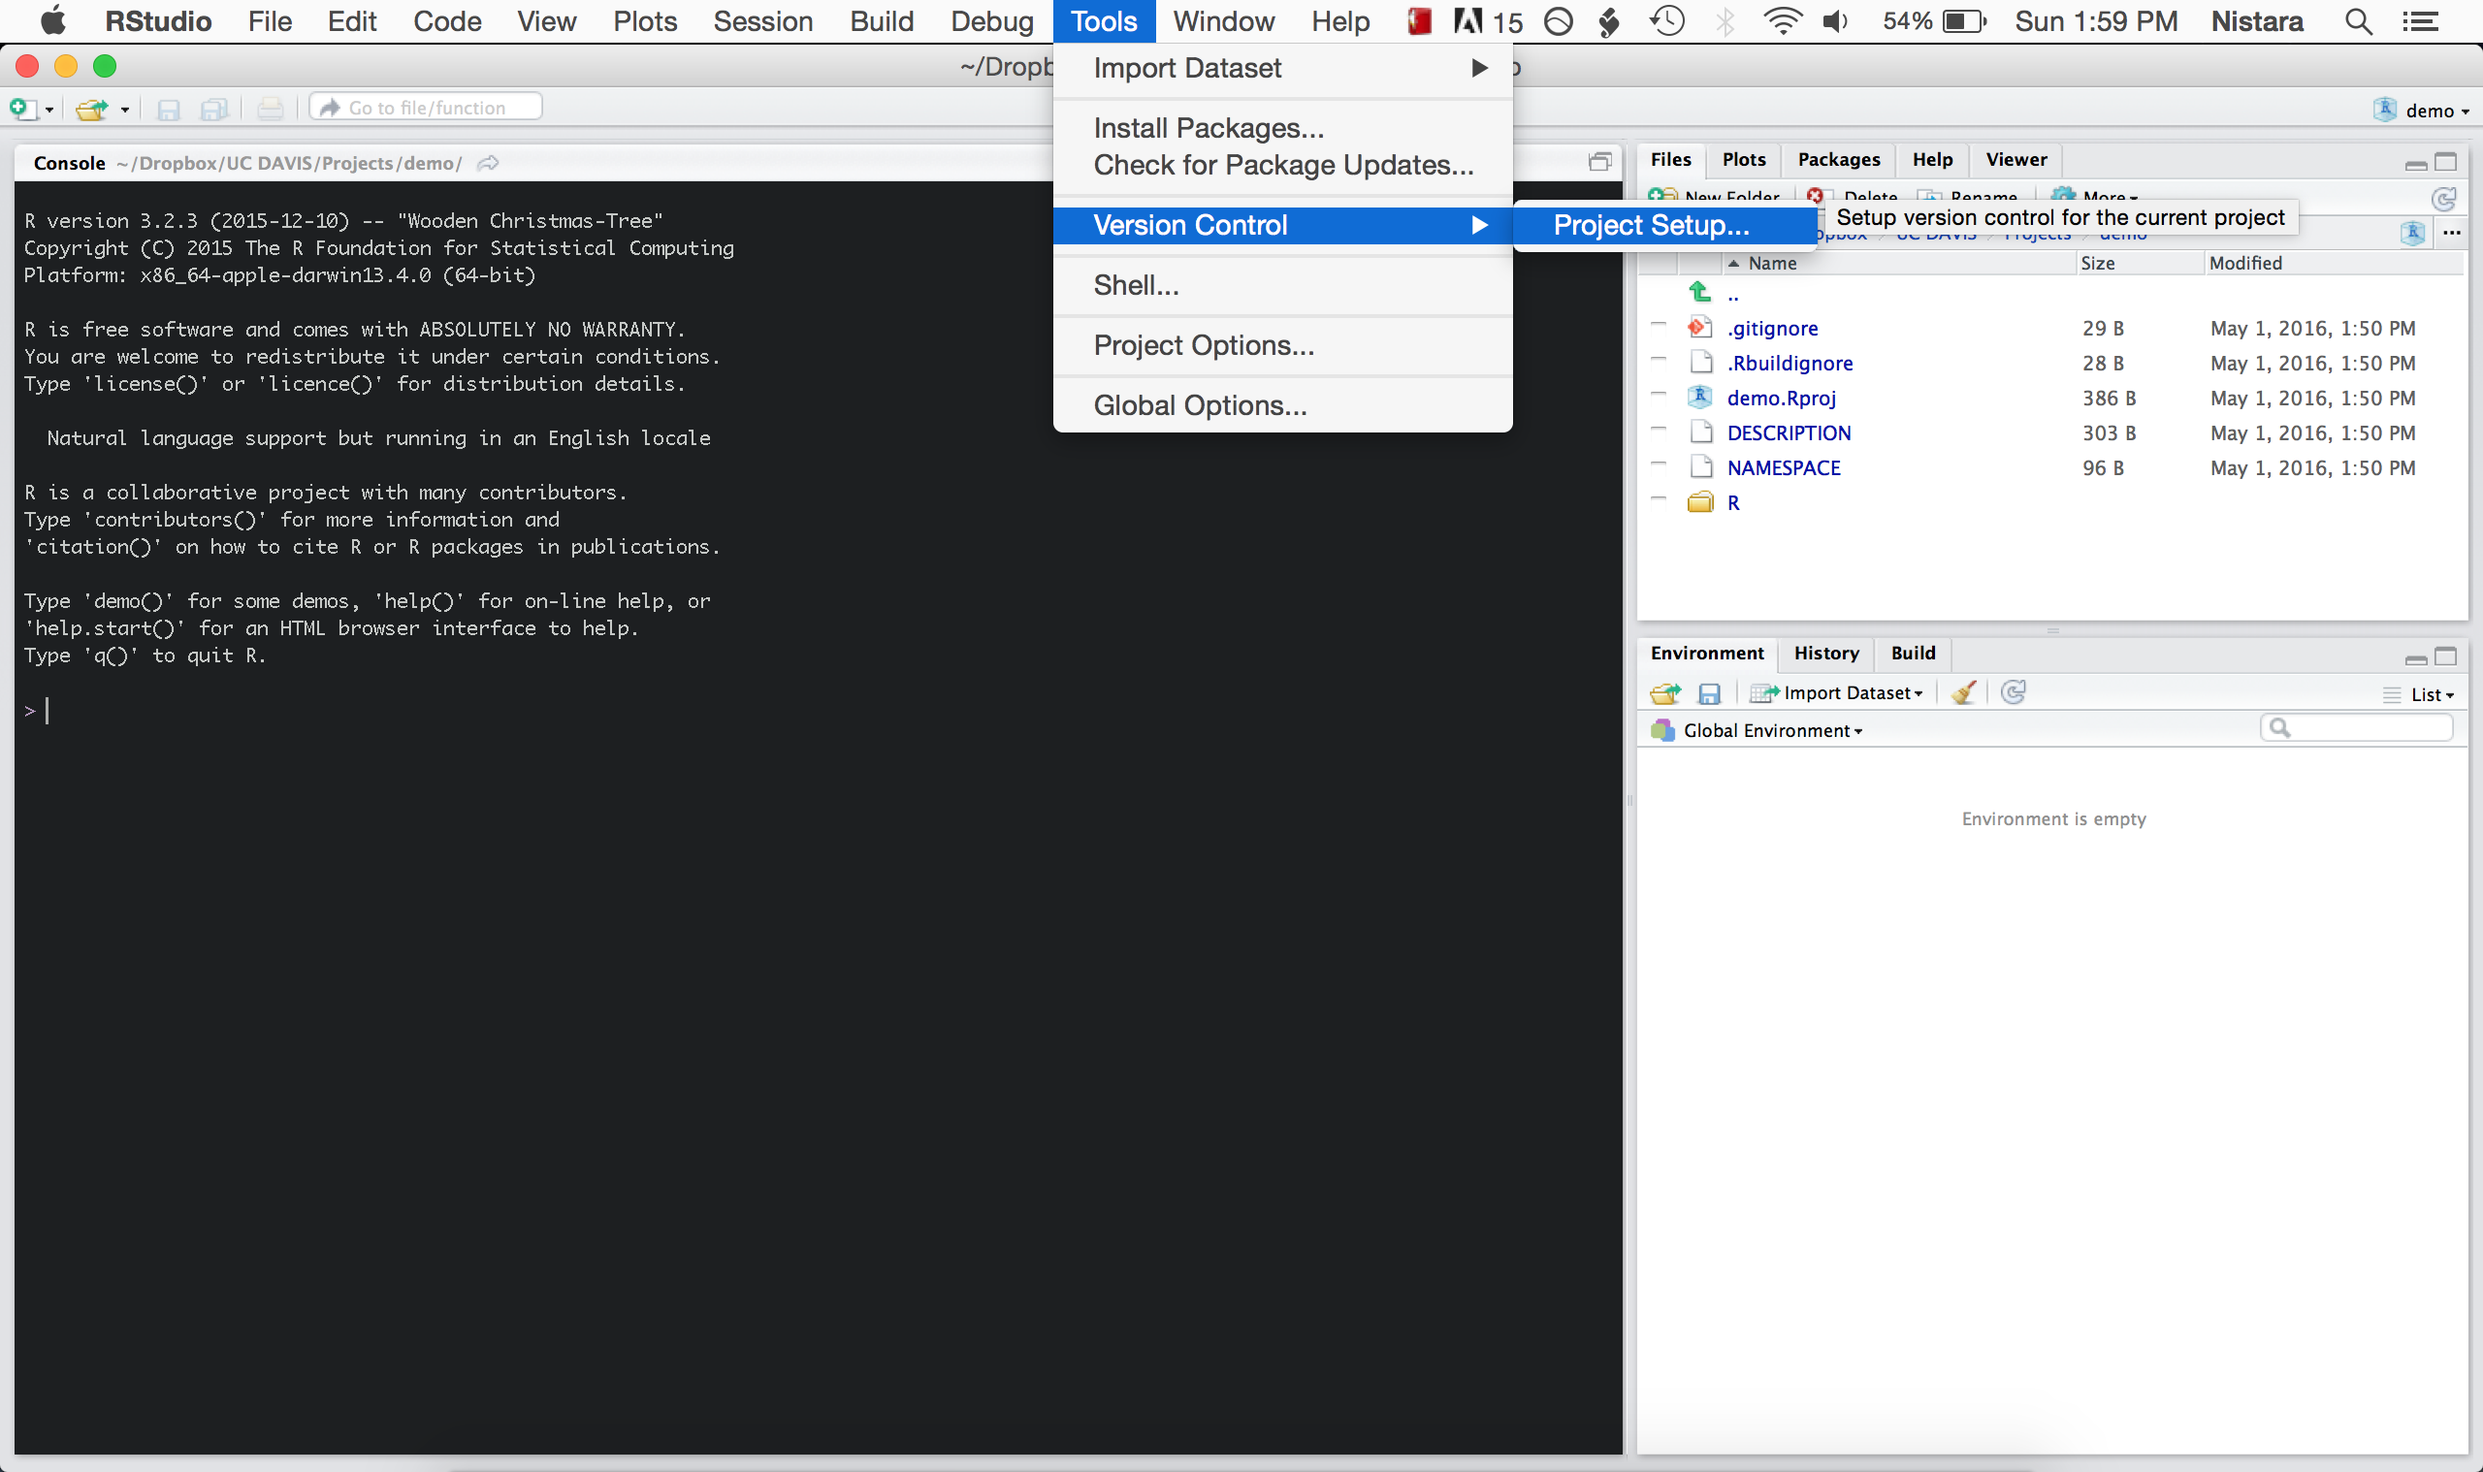
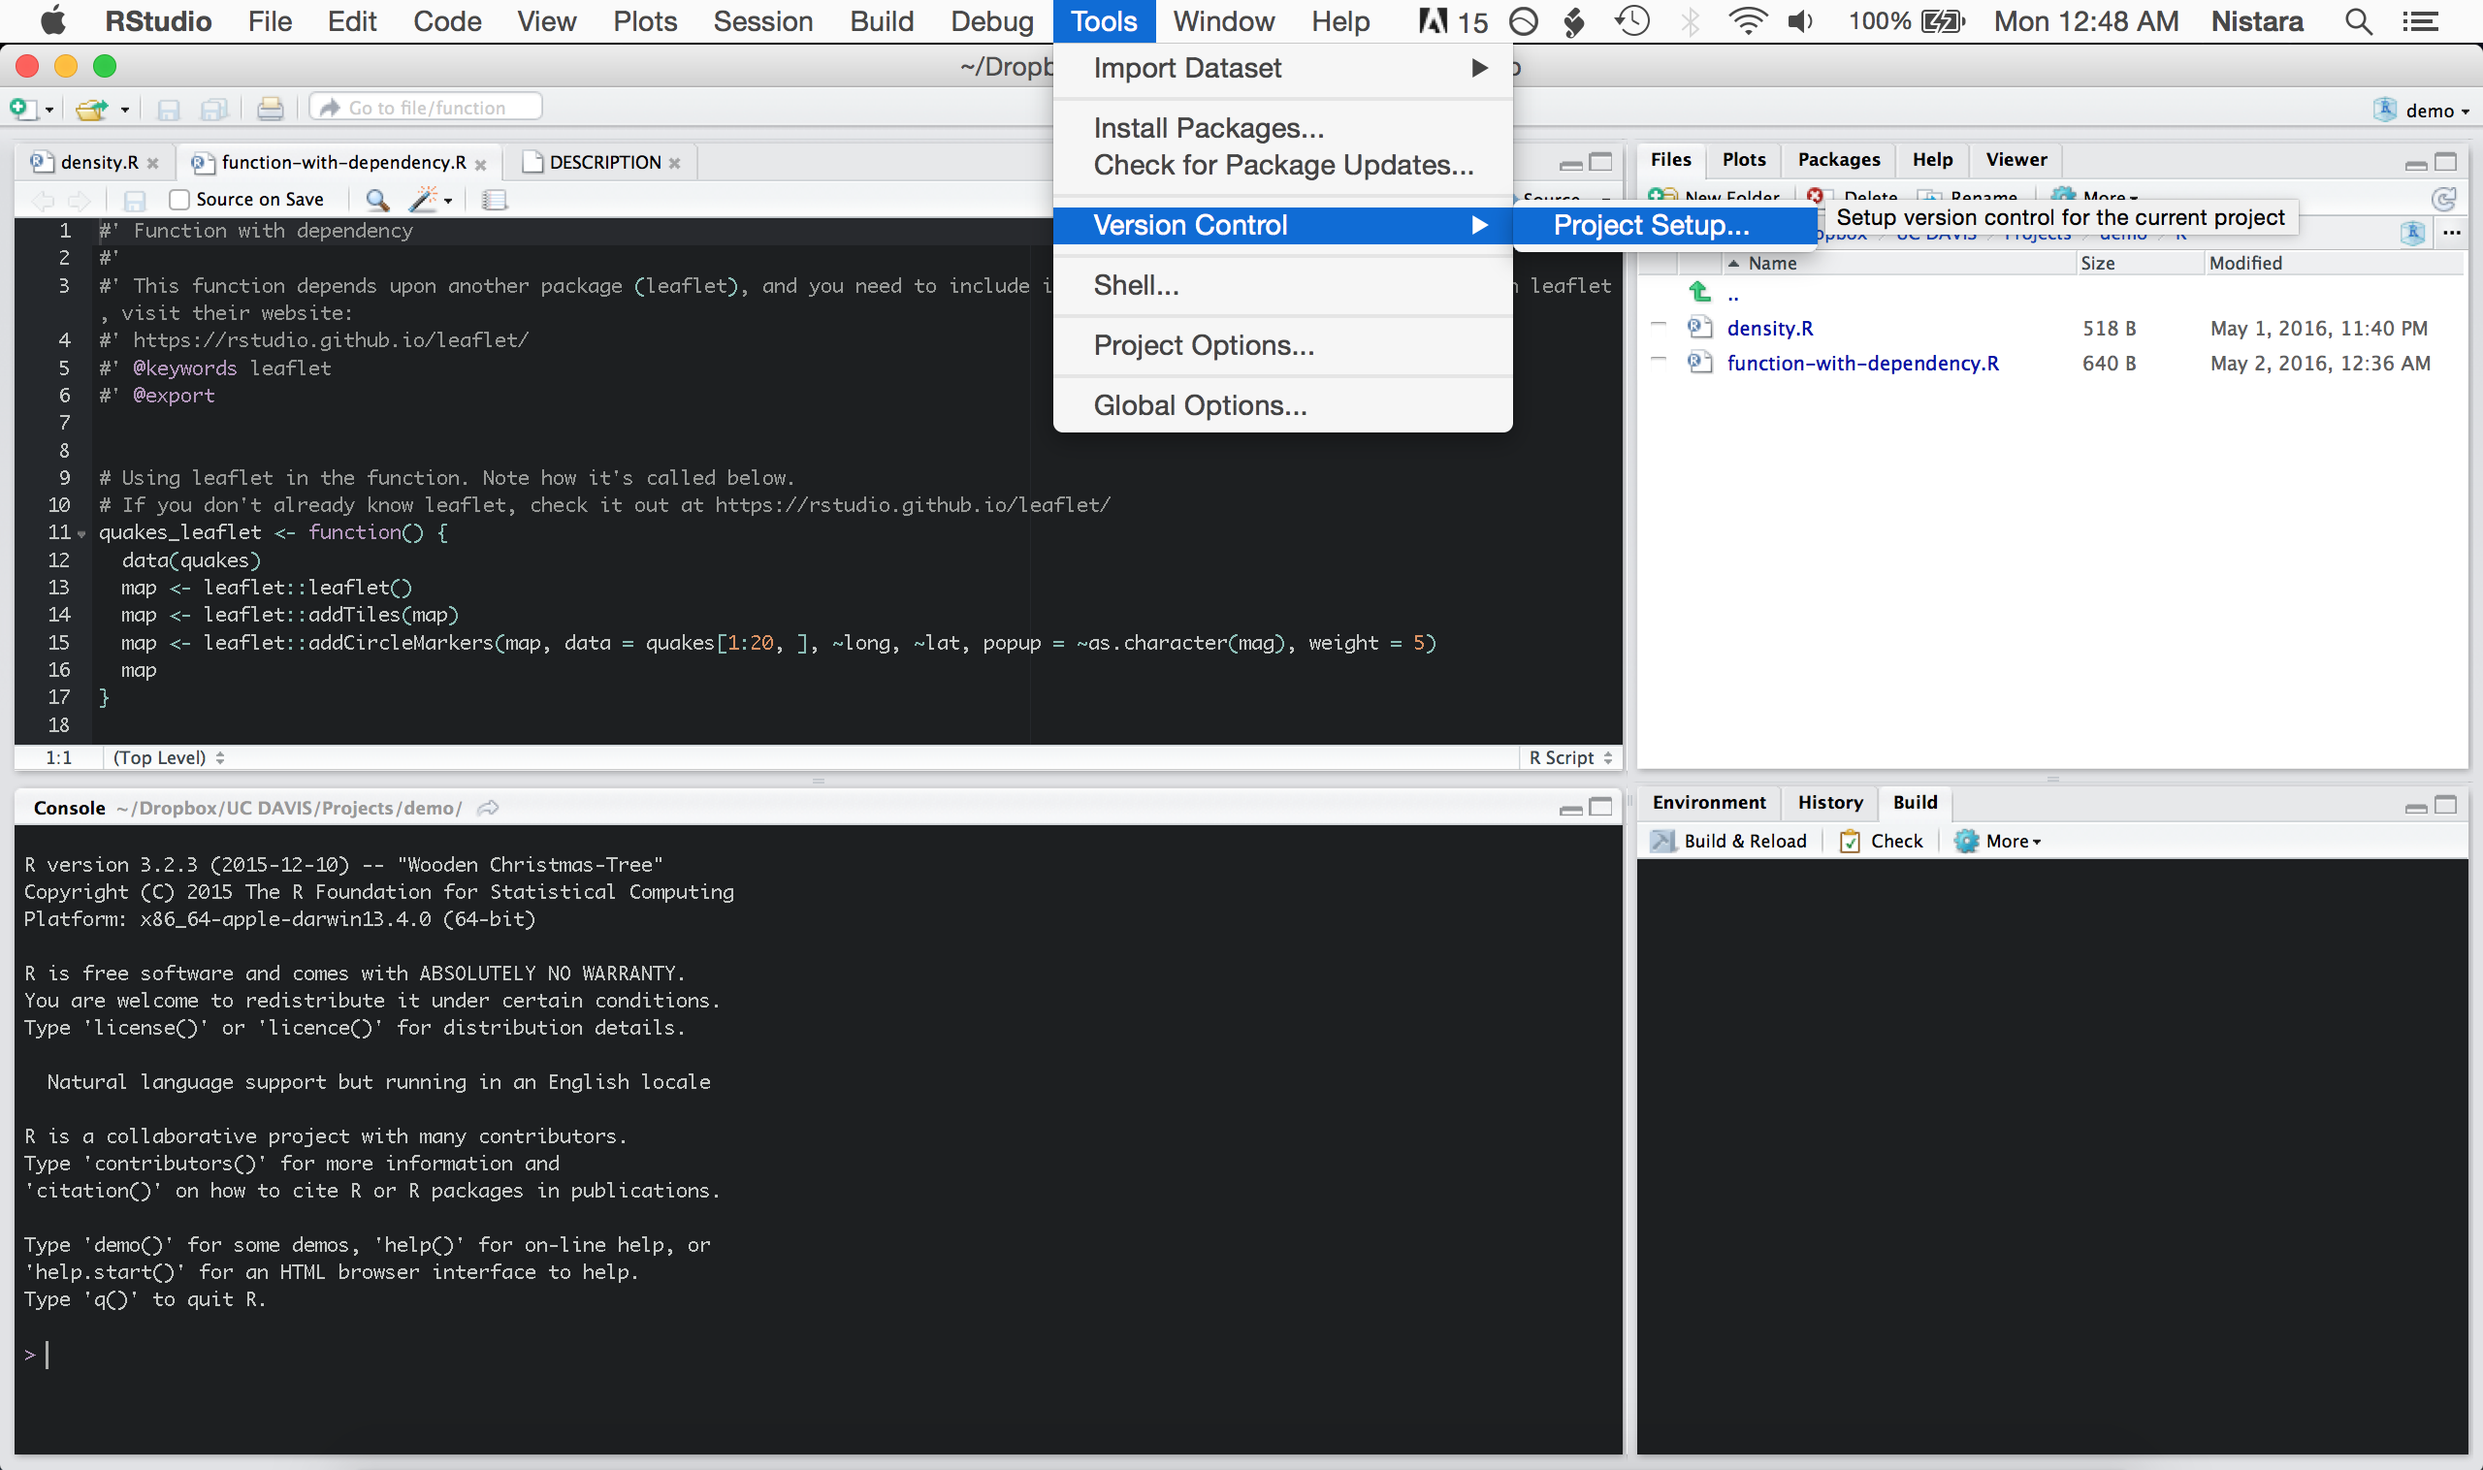
package post

diff --git a/_posts/2016-04-01-building-R-package.md b/_posts/2016-04-01-building-R-package.md
@@ -6,7 +6,6 @@ tags:
  - R
 comments: true
 ---
-Under construction
 
 I made this post for an introduction to building and documenting your own R packages for the Davis R-users' group. It'll get you started on making basic R packages, and once you get the flavor of what it's all about, you can unleash your inner R genie to create your own tools! 
 
@@ -34,8 +33,7 @@ library("devtools")
 devtools::install_github("klutometis/roxygen")
 library(roxygen2)
 
-Step
-install.packages(c("devtools", "
+# Create a demo package
 devtools::create("package_path/demo")
 {% endhighlight %}
 
@@ -52,19 +50,6 @@ A project is automatically created within that folder, along with the basic skel
 
    ![]({{ nistara.github.io }}/_assets/images/2016-05-01-R-packages-post/2016-05-01-1-start-screenI.png)
 
-
-
-To enable version control using git and github, and subsequently host your package on github, change your project settings via **Tools** from the menu bar. _If you don't intend to use git/github, skip the following steps:_
-
-   ![]({{ nistara.github.io }}/_assets/images/2016-05-01-R-packages-post/2016-05-01-2-start-screenII.png)
-
-From Git/SVN in the project options, choose git.
-
-   ![]({{ nistara.github.io }}/_assets/images/2016-05-01-R-packages-post/2016-05-01-3-choose-git.png)
-
-
-You'll see git options in your project window now:
-   ![]({{ nistara.github.io }}/_assets/images/2016-05-01-R-packages-post/2016-05-01-5-now-git.png)
 
 ## **Writing functions**
 
@@ -83,20 +68,143 @@ dplot_rnorm <- function(n = 100) {
 {% endhighlight %}
 
 You can load and run the functions in your package with devtools 
-{% highlight r %} 
+
+{% highlight r %}
 # Load the function(s) created in your package
 devtools::load_all() 
 
-# Check out the dplot_rnorm function now
+# Check out the dplot_rnorm function to see if it works
 dplot_rnorm()
 {% endhighlight %}
 
-<img src={{ nistara.github.io }}/_assets/images/2016-05-01-R-packages-post/sample.pdf) width="250" height="175" />
-
-![]({{ nistara.github.io }}/_assets/images/2016-05-01-R-packages-post/sample.pdf)
+<img src="https://nistara.github.io/_assets/images/2016-05-01-R-packages-post/sample.pdf" width="400" height="500" />
 
 
-devtools::load_
+It does! Now we'd also like to add documentation for our function. The package roxygen2 is great for this because it significantly simpifies the documentation process. 
+
+{% highlight r %}
+#' Random number generator and plotter
+#'
+#' This function generates random normal numbers, and creates a density plot for them.
+#' @param n number of random normal numbers you'd like generated (default is 100)
+#' @keywords random normal, plot
+#' @export
+#' @examples
+#' dplot_rnorm()
+#' dplot_rnorm(n = 1000)
+
+dplot_rnorm <- function(n = 100) {
+  numbers <- rnorm(n)
+  d <- density(numbers)
+  title <- sprintf("Density plot of %s random normal numbers", n)
+  plot(d, main = title)
+  polygon(d, col = "lightgrey")
+}
+{% endhighlight %}
+
+Now document your package using devtools, and check out the generated help file:
+{% highlight r %}
+# Document package with devtools
+devtools::document()
+
+# See what the help file looks like
+?dplot_rnorm
+{% endhighlight %}
+
+<img src="https://nistara.github.io/_assets/images/2016-05-01-R-packages-post/help-file.png" width="600" border="1"/>
+
+<br>
+
+Another thing you might want to update is the DESCRIPTION file of yor package. Open it and see the default description, and update it as you'd like (it's pretty self explanatory). 
+
+Voila! We're done with our basic package. 
+
+### **What if some commands depend on another package?**
+You might find yourself needing to include commands from another package, for e.g. dplyr, or tidyr. They're called **dependencies**, and can be added with (no surprises) devtools. I like [leaflet](https://rstudio.github.io/leaflet/)  a lot, so will use it as an example:
+
+{% highlight r %}
+devtools::use_package("leaflet")
+{% endhighlight %}
+
+Now let's write a function which calls leaflet:
+
+{% highlight r %}
+#' Function with dependency
+#'
+#' This function depends upon another package (leaflet), and you need to include it with devtools. For more information on leaflet, visit their website:
+#' https://rstudio.github.io/leaflet/
+#' @keywords leaflet
+#' @export
+
+# Using leaflet in the function. Note how it's called below.
+# If you don't already know leaflet, check it out at https://rstudio.github.io/leaflet/
+quakes_leaflet <- function() {
+  data(quakes)
+  map <- leaflet::leaflet()
+  map <- leaflet::addTiles(map)
+  map <- leaflet::addCircleMarkers(map, data = quakes[1:20, ], ~long, ~lat, popup = ~as.character(mag), weight = 5)
+  map
+}{% endhighlight %}
+
+To see how it's working, you need to repeat the devtools' _document_ and _load_all_ functions again:
+{% highlight r %}
+devtools::document()
+devtools::load_all()
+
+# Check its help file
+?quakes_leaflet()
+
+# Run the function
+quakes_leaflet()
+{% endhighlight %}
+
+## **Installing your package as a local file**
+
+After you've wrapped up the package and it's good to go, you can install the package via:
+
+{% highlight r %}
+# Install demo
+install.packages("path/to/demo", repos = NULL, type="source")
+library(demo)
+
+# Run a function from demo or look at a help file
+??quakes_leaflet
+quakes_leaflet()
+{% endhighlight %}
+
+## **That's it! But what if you want to use git/github with your package?**
+To enable version control using git and github, and subsequently host your package on github, change your project settings via **Tools** from the menu bar. _If you don't intend to use git/github, skip the following steps:_
+
+   ![]({{ nistara.github.io }}/_assets/images/2016-05-01-R-packages-post/2016-05-01-2-start-screenII.png)
+
+From Git/SVN in the project options, choose git.
+
+   ![]({{ nistara.github.io }}/_assets/images/2016-05-01-R-packages-post/2016-05-01-3-choose-git.png)
+
+
+You'll see git options in your project window now:
+   ![]({{ nistara.github.io }}/_assets/images/2016-05-01-R-packages-post/2016-05-01-5-now-git.png)
+   
+You can now commit changes and push the contents of the package to your github repository. 
+
+To install a package (e.g. the demo package I just created) from the github repository:
+
+{% highlight r %}
+devtools::install_github("nistara/demo")
+{% endhighlight %}
+
+## **Resources/References for you**
+Hope you've learnt enough to get started with making packages. My main references were:
+
+* Hadley Wickham's book, **[R packages](http://r-pkgs.had.co.nz)**, and 
+
+* Hilary Parker's short and sweet (and very helpful) [post on writing a package from scratch](https://hilaryparker.com/2014/04/29/writing-an-r-package-from-scratch/). 
+
+There are a few different ways to go about writing your package, and this is just one of them. For a deepr plunge into package making, I highly recommend going through Hadley's book.
+
+
+
+
 
 
 
